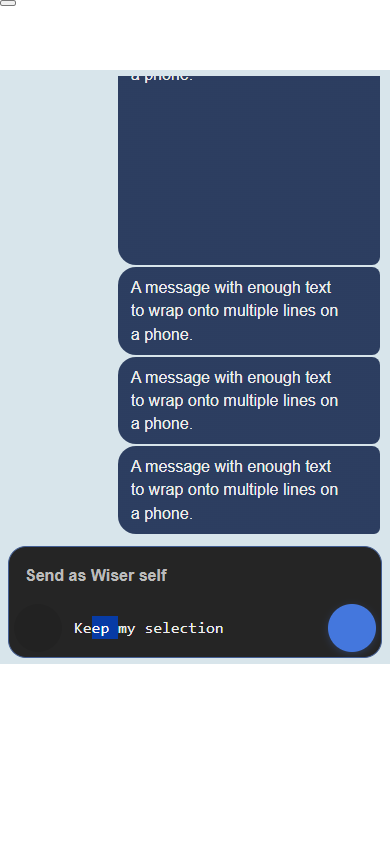
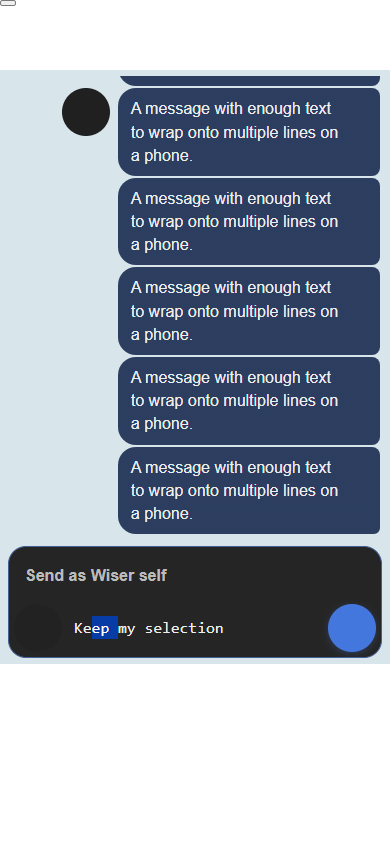
Finish native chat composer, scrolling and picture backgrounds

diff --git a/src/plugin.ts b/src/plugin.ts
@@ -362,8 +362,9 @@ export default class SolomonChatPlugin extends Plugin {
       && oldCount <= conversation.messages.length
       && previousConversation.messages.every((message, index) => this.sameMessage(message, conversation.messages[index]));
     const appended = canReuseTranscript && conversation.messages.length > oldCount;
-    if (state.initialScrollPending || appended && state.scrollAfterNextAppend) state.followingLatest = true;
-    if (appended) {
+    const receivedMessages = oldPath === file.path && conversation.messages.length > oldCount;
+    if (state.initialScrollPending || receivedMessages && state.scrollAfterNextAppend) state.followingLatest = true;
+    if (receivedMessages) {
       state.scrollAfterNextAppend = false;
       this.setLatestVisible(state, !state.followingLatest);
     }
@@ -376,7 +377,7 @@ export default class SolomonChatPlugin extends Plugin {
     this.applyBackground(state);
     this.updateSpeakerControls(state);
     if (!canReuseTranscript) {
-      this.setLatestVisible(state, false);
+      if (!receivedMessages) this.setLatestVisible(state, false);
       state.component.unload(); state.component = new Component(); state.component.load();
       state.visibleStart = firstRender || oldPath !== file.path
         ? initialVisibleStart(conversation.messages.length)
@@ -400,7 +401,7 @@ export default class SolomonChatPlugin extends Plugin {
         this.setLatestVisible(renderedState, false);
         renderedState.messages.scrollTop = renderedState.messages.scrollHeight;
         renderedState.initialScrollPending = false;
-      } else if (appended) {
+      } else if (receivedMessages) {
         renderedState.followingLatest = false;
         renderedState.messages.scrollTop = previousScrollTop;
         this.setLatestVisible(renderedState, true);
@@ -725,13 +726,14 @@ export default class SolomonChatPlugin extends Plugin {
 
   private openBackgroundModal(state: ViewState): void {
     const file = state.file;
-    new FormModal(this.app, { title: "Chat background", initial: {
+    const modal: FormModal = new FormModal(this.app, { title: "Chat background", initial: {
       color: state.conversation.backgroundColor, image: state.conversation.backgroundImage,
     }, fields: [
       { key: "color", name: "Background color", type: "color", description: "Choose a color, or use the reset button for the theme default." },
-      { key: "image", name: "Wallpaper image", placeholder: "Wallpapers/quiet-sky.jpg", description: "Optional image path from your vault root. Clear to remove. PNG, JPEG, WebP, GIF, or AVIF. No remote images." },
+      { key: "image", name: "Wallpaper image", placeholder: "Choose a picture or enter a vault path", description: "Choose a picture already in your vault. Add your photo to the vault first if needed. Clear the path to remove the wallpaper.", choosePicture: true },
     ], onSubmit: async (values) => {
-      const color = chatBackgroundColor(values.color), image = chatBackgroundImage(values.image);
+      const color = chatBackgroundColor(values.color);
+      const image = chatBackgroundImage(values.image);
       if (values.color.trim() && !color) throw new Error("Choose a valid background color.");
       if (values.image.trim() && (!image || !(this.app.vault.getAbstractFileByPath(image) instanceof TFile))) throw new Error("Choose an existing supported image inside your vault, using its vault-relative path.");
       await this.queue(file.path, async () => this.app.fileManager.processFrontMatter(file, (fm: Frontmatter) => {
@@ -740,7 +742,8 @@ export default class SolomonChatPlugin extends Plugin {
       for (const current of this.states.values()) if (current.file === file) {
         current.conversation.backgroundColor = color; current.conversation.backgroundImage = image; this.applyBackground(current);
       }
-    } }).open();
+    } });
+    modal.open();
   }
 
   private openEditModal(file: TFile, target: ChatMessage): void {

diff --git a/src/modals.ts b/src/modals.ts
@@ -1,4 +1,5 @@
-import { Modal, Platform, Setting } from "obsidian";
+import { FuzzySuggestModal, Modal, Platform, Setting, TFile } from "obsidian";
+import { chatBackgroundImage } from "./background";
 
 export interface FieldSpec {
   key: string;
@@ -6,9 +7,11 @@ export interface FieldSpec {
   description?: string;
   placeholder?: string;
   type?: "text" | "textarea" | "color";
+  choosePicture?: boolean;
 }
 
 export class FormModal extends Modal {
+  private saving = false;
   constructor(
     app: ConstructorParameters<typeof Modal>[0],
     private readonly options: {
@@ -49,6 +52,11 @@ export class FormModal extends Modal {
         setting.addText((component) => {
           component.setValue(values[field.key] || "").setPlaceholder(field.placeholder || "").onChange((value) => values[field.key] = value);
           firstInput ||= component.inputEl;
+          if (field.choosePicture) setting.addButton((button) => button.setButtonText("Choose picture").onClick(() => {
+            new PictureModal(this.app, (value) => {
+              if (this.modalEl.isConnected && !this.saving) { values[field.key] = value; component.setValue(value); }
+            }).open();
+          }));
         });
       }
     }
@@ -62,15 +70,32 @@ export class FormModal extends Modal {
   }
 
   private async submit(values: Record<string, string>, submit: HTMLButtonElement, status: HTMLElement): Promise<void> {
+      if (this.saving) return;
+      this.saving = true;
+      this.contentEl.inert = true;
+      this.contentEl.setAttribute("aria-busy", "true");
       submit.disabled = true;
       status.textContent = "";
       try {
-        if (await this.options.onSubmit(values) !== false) this.close();
+        if (await this.options.onSubmit({ ...values }) !== false) { this.saving = false; this.close(); }
       } catch (error) {
         console.error("Solomon Chat: form action failed", error);
         status.textContent = error instanceof Error ? error.message : "The change could not be saved.";
-      } finally { submit.disabled = false; }
+      } finally { this.saving = false; this.contentEl.inert = false; this.contentEl.removeAttribute("aria-busy"); submit.disabled = false; }
   }
+
+  close(): void { if (!this.saving) super.close(); }
+}
+
+class PictureModal extends FuzzySuggestModal<TFile> {
+  constructor(app: ConstructorParameters<typeof Modal>[0], private readonly choose: (path: string) => void) {
+    super(app);
+    this.setPlaceholder("Find a picture in your vault…");
+    this.emptyStateText = "No pictures found. Add a PNG, JPEG, WebP, GIF, or AVIF image to your vault first.";
+  }
+  getItems(): TFile[] { return this.app.vault.getFiles().filter((file) => !!chatBackgroundImage(file.path)); }
+  getItemText(file: TFile): string { return file.path; }
+  onChooseItem(file: TFile): void { this.choose(file.path); }
 }
 
 export class ConfirmModal extends Modal {

diff --git a/styles.css b/styles.css
@@ -43,7 +43,7 @@
 }
 
 .solomon-chat-bottom-inset-probe {
-  height: var(--mobile-toolbar-height, 0px);
+  height: calc(var(--mobile-toolbar-height, 0px) + var(--navbar-bottom-offset, 0px));
   pointer-events: none;
   position: absolute;
   visibility: hidden;

diff --git a/docs/testing/beta-closeout-20260906.md b/docs/testing/beta-closeout-20260906.md
@@ -1,0 +1,30 @@
+# Solomon Chat RC2 closeout — 2026-09-06
+
+## Scope
+
+Persistent composer, follow-latest scrolling, mobile Enter/newline, native picture-background selection, and integration with Obsidian's mobile navbar. Work stayed on fix/iphone-chat-visibility with private history; public main/release/store submission were not changed.
+
+## Automated evidence
+
+- TypeScript check and production bundle build pass.
+- 45 Vitest tests pass.
+- ESLint: zero errors; existing settings-search warning remains.
+- Production dependency audit: no known vulnerabilities.
+- Compiled-bundle browser harness: ten cases across 375×667, 390×844, 844×390, 430×915 and 1280×900, each light/dark. Includes actual mobile Enter input, persistent composer, own-send scroll after unchanged refresh/concurrent earlier-message edits, incoming rebuild Latest state, late content resize, picture filtering/selection/persistence, asynchronous modal save protection, and raised navbar inset (52+24=76px).
+
+## Native smoke tests
+
+Isolated SolomonMobileTest vaults only. No personal conversations used.
+
+- Windows Obsidian 1.13.7: native Chat background → Choose picture search → selection → Save succeeds; frontmatter and displayed wallpaper persist. Existing send-continuity evidence is recorded in the RC1 report.
+- Android 15 emulator, Obsidian 1.13.6: physical input sequence with KEYCODE_ENTER produces two lines without sending. Tapping chat Send from history returns to latest (remaining scroll gap 0.455 CSS px), keeps focus and clears draft.
+- Android native vault picture chooser saves Wallpaper test.png, resolves its local resource URL, and displays it. Fixture is a synthetic chat screenshot, not a user's photo.
+- Final Android navbar regression: composer bottom was 749.273 vs navbar top 733.273 (16px overlap). Including Obsidian's --navbar-bottom-offset moves composer bottom to 725.273, leaving 8px separation. Keyboard-open clearance remains 0 with host-resized view, avoiding duplicate padding.
+
+## Design decision and limits
+
+An experimental direct device file picker hung isolated Windows and Android test views after selection. It was removed; the shipped feature uses Obsidian's vault picture chooser. Add photos to the vault before choosing them. Existing unrelated attachment import code was not changed or revalidated here.
+
+Physical iPhone, accessibility assistive-technology testing, third-party theme coverage, and exhaustive attachment/native acceptance remain unverified. This report does not claim store approval or a public release.
+
+Independent review reproduced and helped close the concurrent-edit scroll failure; native device sessions and integration stayed serial.

diff --git a/README.md b/README.md
@@ -53,7 +53,9 @@ You can give either character a name, bio, and vault image. You can also attach 
 
 ### Customize a chat background
 
-Open the conversation's **⋯** menu and choose **Chat background…**, or run **Solomon Chat: Change chat background** while in chat view. Pick a color and/or enter the vault-relative path of a wallpaper, such as `Wallpapers/quiet-sky.jpg`, then Save. Use the color reset button and clear the wallpaper field to return to the Obsidian theme.
+Open the conversation's **⋯** menu and choose **Chat background…**, or run **Solomon Chat: Change chat background** while in chat view. Select **Choose picture** to search pictures in your vault, or enter a vault-relative path such as `Wallpapers/quiet-sky.jpg`, then Save. Add photos to your vault first. You can also pick a color. Use the color reset button and clear the wallpaper field to return to the Obsidian theme.
+
+On mobile, the keyboard's Enter key inserts a new line; the chat's Send button sends the message. The composer stays mounted during sends. New messages follow automatically while you are at the bottom; reading older messages preserves your position and offers **Latest**.
 
 PNG, JPEG, WebP, GIF, and AVIF wallpapers are supported. Add the image to your vault first; images are not downloaded from remote URLs. Sync the image along with the conversation to use it on another device. Missing or renamed images fall back to the selected color or theme. Background preferences are stored in the conversation's `chat-background-color` and `chat-background-image` frontmatter; other chats are unaffected.
 

diff --git a/docs/releases/1.2.0-rc2.md b/docs/releases/1.2.0-rc2.md
@@ -1,0 +1,17 @@
+# Solomon Chat 1.2.0 — private RC2
+
+The composer stays in place while sending. Mobile Enter inserts a newline; use the chat Send button to send. Follow-latest scrolling handles concurrent transcript edits without pulling readers out of history. Mobile layout now clears Obsidian's floating navigation bar.
+
+For a picture wallpaper, add the image to your vault, then open the conversation menu → Chat background → Choose picture → Save. The chooser uses Obsidian's native searchable list. Pictures are local to the vault; direct gallery import and remote URLs are not supported.
+
+## Install
+
+Back up your vault and existing plugin folder. Close Obsidian. Extract the ZIP and copy only main.js, manifest.json and styles.css into `.obsidian/plugins/solomon-chat`. Keep data.json, conversation notes and attachments. Reopen Obsidian; version is 1.2.0. Test in a spare vault first.
+
+To roll back, close Obsidian and restore the three backed-up plugin assets. Keep your notes and data.json.
+
+## Verification and release status
+
+45 unit tests and ten light/dark responsive browser cases pass. Native Windows 1.13.7 and Android emulator 1.13.6 smoke tests cover the final vault picture chooser; Android additionally verifies multiline input and send-to-latest behavior. Physical iPhone testing and an exhaustive native/theme matrix remain outstanding. See the included testing report.
+
+This is a private installable candidate, not a public release or an Obsidian store approval.

diff --git a/CHANGELOG.md b/CHANGELOG.md
@@ -1,5 +1,15 @@
 # Changelog
 
+## 1.2.0 — private RC2 (2026-09-06, not publicly released)
+
+- Add Obsidian's native searchable picture chooser for vault-local chat wallpapers.
+- Preserve follow-latest behavior when a concurrent edit forces transcript rebuilding; keep Latest available while reading history.
+- Keep the mobile keyboard Enter/newline action and persistent composer covered by regression tests.
+- Account for Obsidian's raised mobile navigation bar so it does not overlap the composer.
+- Prevent dismissal and editing during asynchronous form saves.
+
+Windows and Android emulator smoke tests pass; physical iPhone acceptance remains unverified.
+
 ## 1.2.0 — private RC1 (2026-09-05, not publicly released)
 
 ### Added
